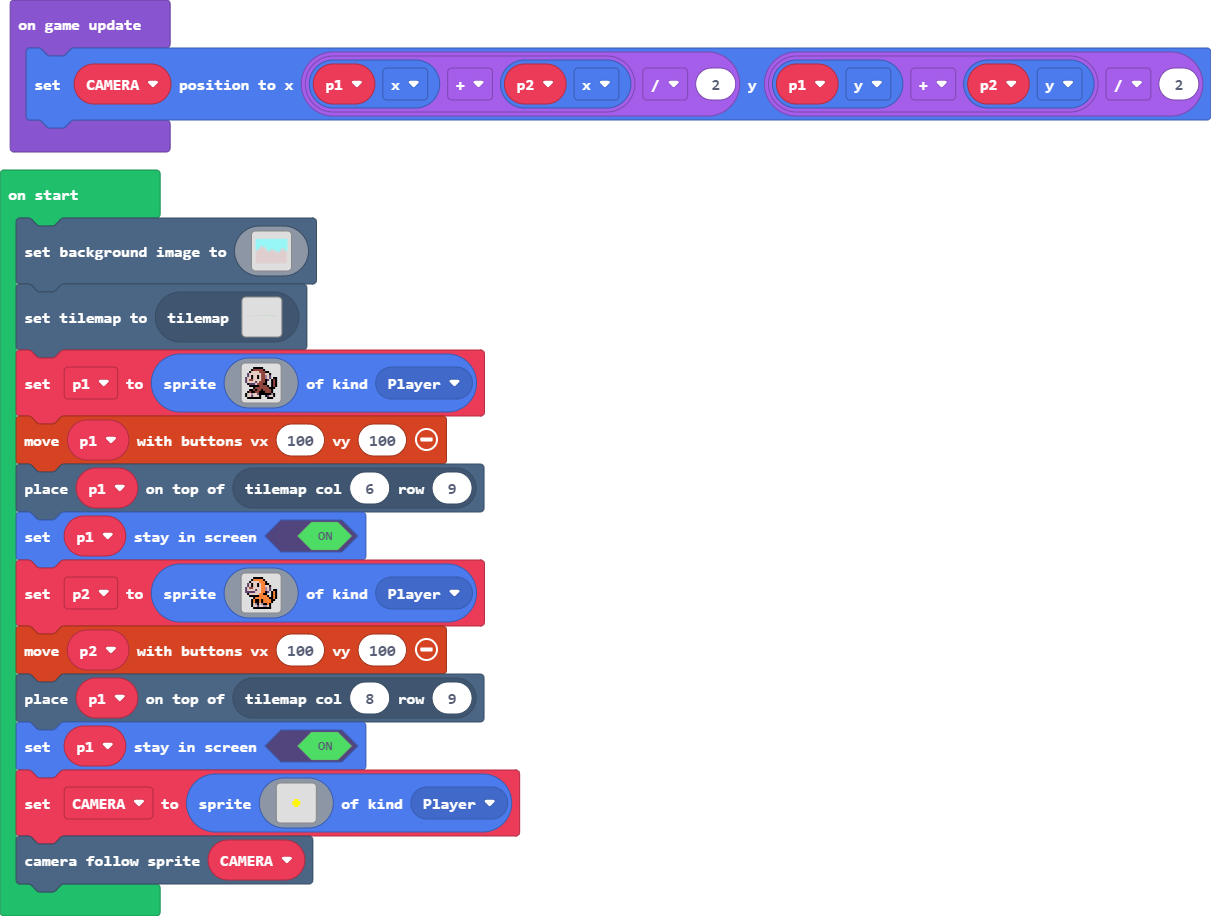
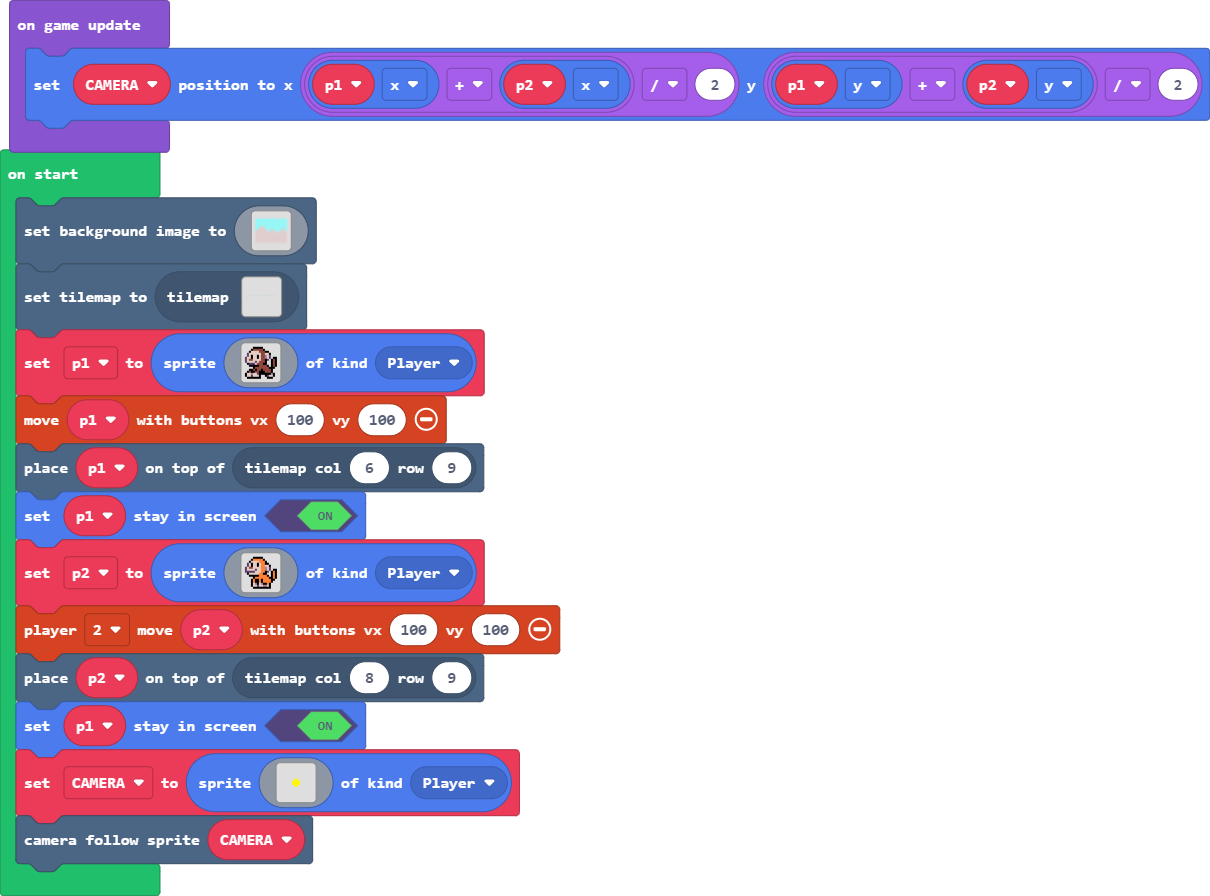
Update main.blocks, main.ts

Changed region(s): [[0.0, 0.0, 1.0, 0.9688]]

diff --git a/main.ts b/main.ts
@@ -160,8 +160,8 @@ let p2 = sprites.create(img`
     . . . f d d c d d b b d f . . . 
     . . . . f f f f f f f f f . . . 
     `, SpriteKind.Player)
-controller.moveSprite(p2, 100, 100)
-tiles.placeOnTile(p1, tiles.getTileLocation(8, 9))
+controller.player2.moveSprite(p2, 100, 100)
+tiles.placeOnTile(p2, tiles.getTileLocation(8, 9))
 p1.setStayInScreen(true)
 let CAMERA = sprites.create(img`
     . . . . . . . . . . . . . . . . 
